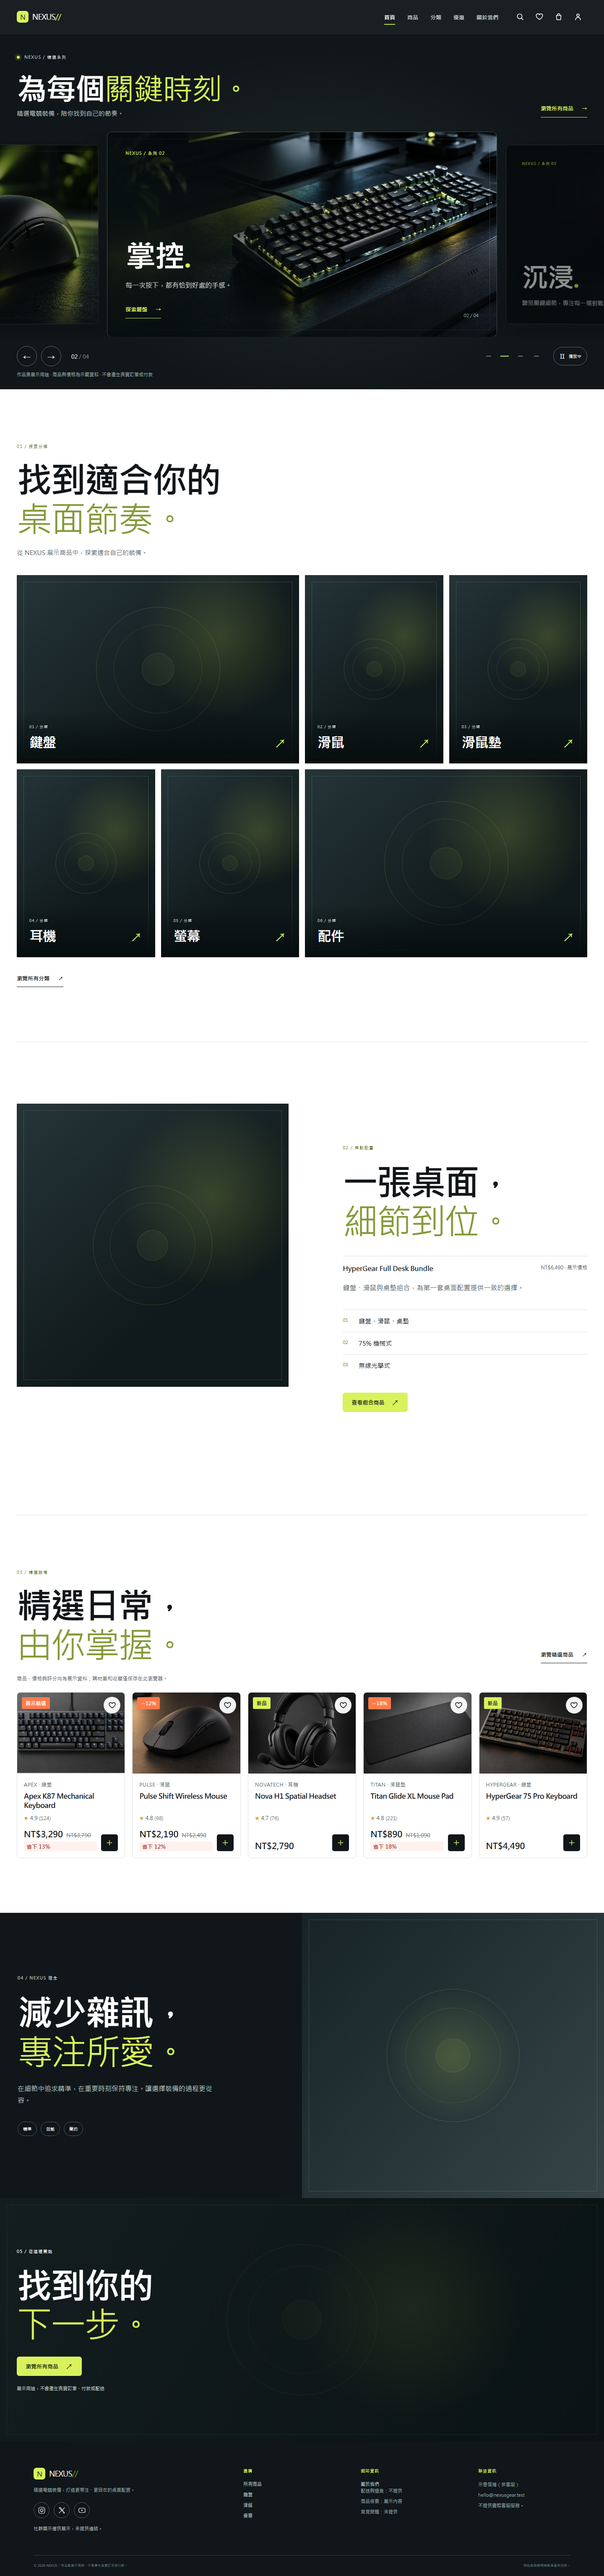
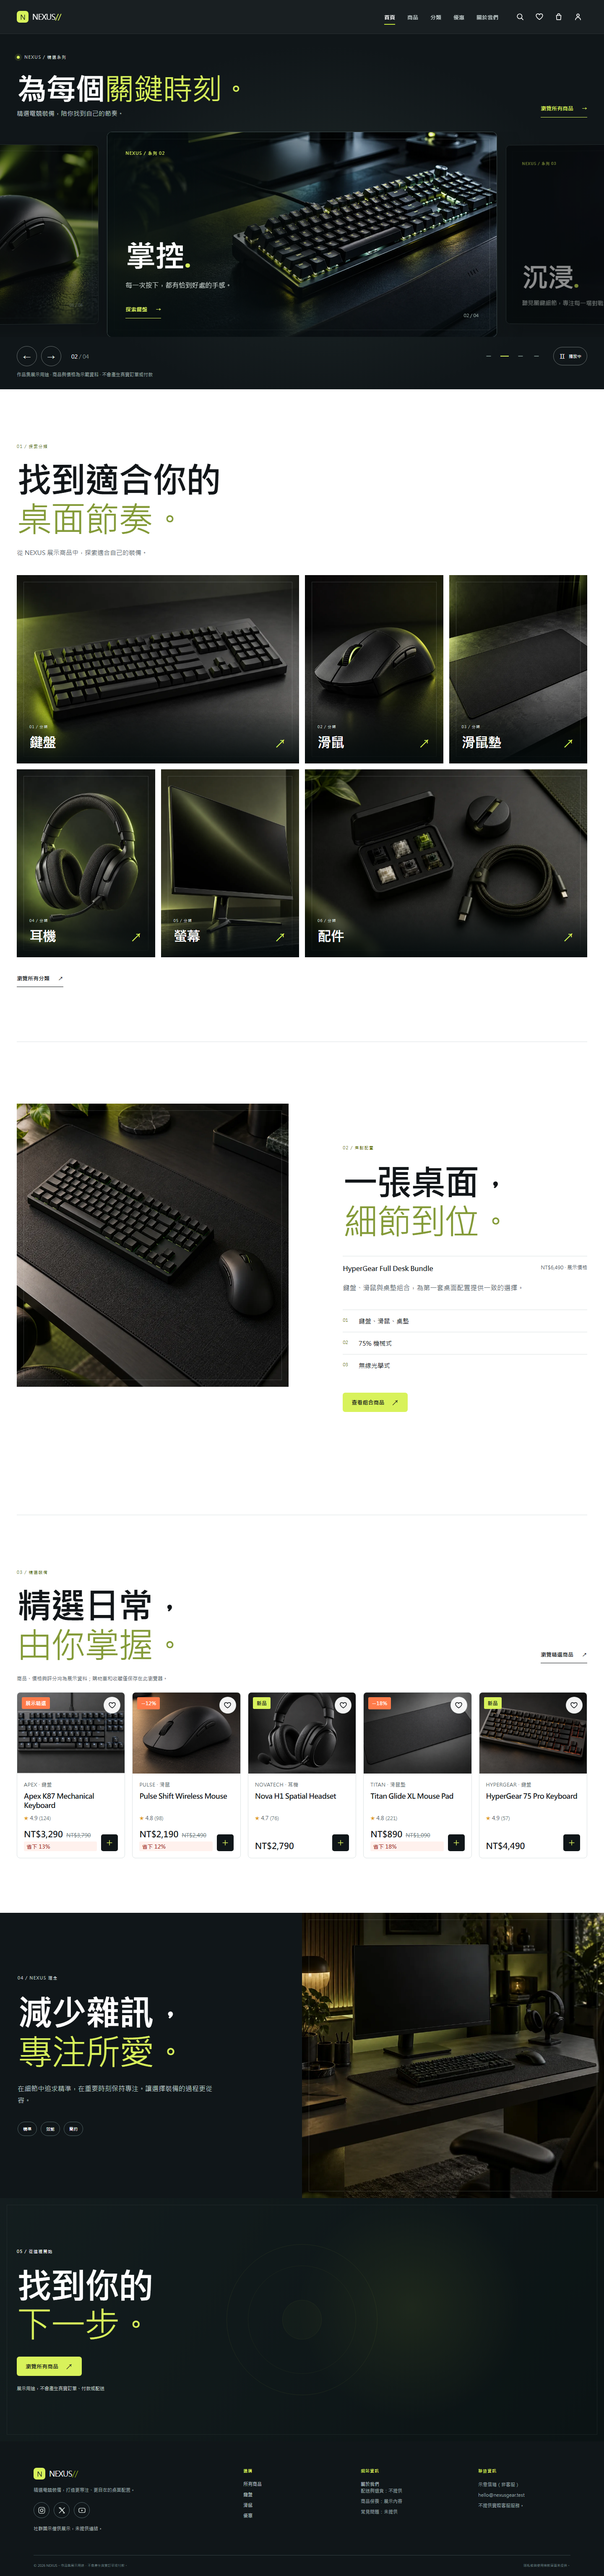
feat: complete NEXUS homepage editorial media

Changed region(s): [[0.0, 0.2177, 1.0, 0.3732], [0.5, 0.7154, 1.0, 0.8709], [0.0, 0.4043, 0.4688, 0.5598]]

diff --git a/src/views/HomeView.vue b/src/views/HomeView.vue
@@ -16,6 +16,14 @@ const featured = computed(() => props.products.filter((product) => product.featu
 const storyProduct = computed(() => props.products.find((product) => product.id === 23))
 const homeCategories = [...categories.slice(0, 2), { name: 'Mouse Pads' }, ...categories.slice(2)]
 const categoryMedia = { Keyboards: 'HOME_CATEGORY_KEYBOARD', Mice: 'HOME_CATEGORY_MOUSE', 'Mouse Pads': 'HOME_CATEGORY_MOUSEPAD', Headsets: 'HOME_CATEGORY_HEADSET', Monitors: 'HOME_CATEGORY_MONITOR', Accessories: 'HOME_CATEGORY_ACCESSORY' }
+const categoryAssets = {
+  Keyboards: { src: '/media/home/category-keyboard.webp', width: 1536, height: 1024 },
+  Mice: { src: '/media/home/category-mouse.webp', mobileSrc: '/media/home/category-mouse-mobile.webp', width: 1122, height: 1402 },
+  'Mouse Pads': { src: '/media/home/category-mousepad.webp', mobileSrc: '/media/home/category-mousepad-mobile.webp', width: 1122, height: 1402 },
+  Headsets: { src: '/media/home/category-headset.webp', mobileSrc: '/media/home/category-headset-mobile.webp', width: 1122, height: 1402 },
+  Monitors: { src: '/media/home/category-monitor.webp', mobileSrc: '/media/home/category-monitor-mobile.webp', width: 1122, height: 1402 },
+  Accessories: { src: '/media/home/category-accessory.webp', width: 1536, height: 1024 },
+}
 let motionContext
 let mediaQuery
 
@@ -52,18 +60,18 @@ onUnmounted(() => { mediaQuery?.revert(); motionContext?.revert() })
 
     <section id="discover" class="nexus-home-section nexus-discovery" aria-labelledby="discovery-title" data-scroll-section>
       <div class="nexus-section-head" data-reveal><p class="nexus-overline">01 / 探索分類</p><h2 id="discovery-title">找到適合你的<br><em>桌面節奏。</em></h2><p>從 NEXUS 展示商品中，探索適合自己的裝備。</p></div>
-      <div class="nexus-category-grid"><a v-for="(category, index) in homeCategories" :key="category.name" class="nexus-category" :class="{ 'nexus-category--wide': index === 0 || index === homeCategories.length - 1 }" :href="`/products?category=${encodeURIComponent(category.name)}`" @click.prevent="emit('navigate', `/products?category=${encodeURIComponent(category.name)}`)" data-reveal><MediaPlaceholder :media-id="categoryMedia[category.name]" :label="`${categoryLabel(category.name)}分類媒體預留區`" intended-type="image" :aspect-ratio="index === 0 || index === homeCategories.length - 1 ? '3 / 2' : '4 / 5'" mobile-aspect-ratio="16 / 9" variant="category" priority="P2" :show-meta="false" /><span class="nexus-category__footer"><span><small>0{{ index + 1 }} / 分類</small><strong>{{ categoryLabel(category.name) }}</strong></span><span class="nexus-category__arrow" aria-hidden="true">↗</span></span></a></div>
+      <div class="nexus-category-grid"><a v-for="(category, index) in homeCategories" :key="category.name" class="nexus-category" :class="{ 'nexus-category--wide': index === 0 || index === homeCategories.length - 1 }" :href="`/products?category=${encodeURIComponent(category.name)}`" @click.prevent="emit('navigate', `/products?category=${encodeURIComponent(category.name)}`)" data-reveal><MediaPlaceholder :media-id="categoryMedia[category.name]" :label="`${categoryLabel(category.name)}分類媒體預留區`" intended-type="image" :aspect-ratio="index === 0 || index === homeCategories.length - 1 ? '3 / 2' : '4 / 5'" mobile-aspect-ratio="16 / 9" variant="category" priority="P2" :show-meta="false" v-bind="categoryAssets[category.name]" alt="" /><span class="nexus-category__footer"><span><small>0{{ index + 1 }} / 分類</small><strong>{{ categoryLabel(category.name) }}</strong></span><span class="nexus-category__arrow" aria-hidden="true">↗</span></span></a></div>
       <a class="nexus-inline-link" href="/products" @click.prevent="emit('navigate', '/products')">瀏覽所有分類 <span aria-hidden="true">↗</span></a>
     </section>
 
     <section v-if="storyProduct" class="nexus-home-section nexus-story" aria-labelledby="story-title" data-scroll-section>
-      <div class="nexus-story__visual" data-reveal><MediaPlaceholder media-id="HOME_FEATURE_STORY" :label="`${storyProduct.name} product story`" intended-type="either" aspect-ratio="4 / 5" mobile-aspect-ratio="4 / 3" variant="story" priority="P1" :show-meta="false" /></div>
+      <div class="nexus-story__visual" data-reveal><MediaPlaceholder media-id="HOME_FEATURE_STORY" :label="`${storyProduct.name} product story`" intended-type="image" aspect-ratio="4 / 5" mobile-aspect-ratio="4 / 3" variant="story" priority="P1" :show-meta="false" src="/media/home/feature-story.webp" alt="深色桌墊上的機械鍵盤與無線滑鼠，呈現桌面組合配置" :width="1122" :height="1402" /></div>
       <div class="nexus-story__copy"><p class="nexus-overline" data-reveal>02 / 焦點配置</p><h2 id="story-title" data-reveal>一張桌面，<br><em>細節到位。</em></h2><p class="nexus-story__name" data-reveal>{{ storyProduct.name }} <span>{{ money(storyProduct.price) }} · 展示價格</span></p><p data-reveal>{{ productDescription(storyProduct) }}</p><div class="nexus-story__points" data-reveal><p><span>01</span> {{ specificationValue(storyProduct.specifications.Includes) }}</p><p><span>02</span> {{ specificationValue(storyProduct.specifications.Keyboard) }}</p><p><span>03</span> {{ specificationValue(storyProduct.specifications.Mouse) }}</p></div><a class="btn btn-primary" :href="`/products/${storyProduct.id}`" @click.prevent="emit('navigate', `/products/${storyProduct.id}`)" data-reveal>查看組合商品 <span aria-hidden="true">↗</span></a></div>
     </section>
 
     <section class="nexus-home-section nexus-featured" aria-labelledby="featured-title" data-scroll-section><div class="nexus-section-head nexus-section-head--row" data-reveal><div><p class="nexus-overline">03 / 精選裝備</p><h2 id="featured-title">精選日常，<br><em>由你掌握。</em></h2></div><a class="nexus-inline-link" href="/products?featured=true" @click.prevent="emit('navigate', '/products?featured=true')">瀏覽精選商品 <span aria-hidden="true">↗</span></a></div><p class="nexus-featured__note">商品、價格與評分均為展示資料；購物車和收藏僅保存在此瀏覽器。</p><ProductGrid :products="featured" :wishlist-ids="wishlistIds" @add="emit('add', $event)" @toggle-wishlist="emit('toggle-wishlist', $event)" @open="emit('open', $event)" /></section>
 
-    <section class="nexus-philosophy" aria-labelledby="philosophy-title" data-scroll-section><div class="nexus-philosophy__copy"><p class="nexus-overline" data-reveal>04 / NEXUS 理念</p><h2 id="philosophy-title" data-reveal>減少雜訊，<br><em>專注所愛。</em></h2><p data-reveal>在細節中追求精準，在重要時刻保持專注。讓選擇裝備的過程更從容。</p><div class="nexus-philosophy__values" data-reveal><span>精準</span><span>效能</span><span>簡約</span></div></div><MediaPlaceholder class="nexus-philosophy__media" media-id="HOME_BRAND_FILM" label="NEXUS 品牌氛圍媒體預留區" intended-type="video" aspect-ratio="4 / 5" mobile-aspect-ratio="16 / 9" variant="brand" priority="P2" :show-meta="false" /></section>
+    <section class="nexus-philosophy" aria-labelledby="philosophy-title" data-scroll-section><div class="nexus-philosophy__copy"><p class="nexus-overline" data-reveal>04 / NEXUS 理念</p><h2 id="philosophy-title" data-reveal>減少雜訊，<br><em>專注所愛。</em></h2><p data-reveal>在細節中追求精準，在重要時刻保持專注。讓選擇裝備的過程更從容。</p><div class="nexus-philosophy__values" data-reveal><span>精準</span><span>效能</span><span>簡約</span></div></div><MediaPlaceholder class="nexus-philosophy__media" media-id="HOME_BRAND_FILM" label="NEXUS 品牌桌面情境" intended-type="image" aspect-ratio="4 / 5" mobile-aspect-ratio="16 / 9" variant="brand" priority="P2" :show-meta="false" src="/media/home/brand-philosophy.webp" alt="深色桌面配置，包含螢幕、鍵盤、滑鼠、耳機與桌墊" :width="1122" :height="1402" /></section>
 
     <section class="nexus-closing" aria-labelledby="closing-title" data-scroll-section><MediaPlaceholder class="nexus-closing__media" media-id="HOME_CLOSING_VISUAL" label="結尾系列媒體預留區" intended-type="either" aspect-ratio="21 / 9" mobile-aspect-ratio="4 / 5" variant="closing" priority="P2" :show-meta="false" /><div class="nexus-closing__content"><p class="nexus-overline" data-reveal>05 / 從這裡開始</p><h2 id="closing-title" data-reveal>找到你的<br><em>下一步。</em></h2><a class="btn btn-primary" href="/products" @click.prevent="emit('navigate', '/products')" data-reveal>瀏覽所有商品 <span aria-hidden="true">↗</span></a><p data-reveal>展示用途，不會產生真實訂單、付款或配送</p></div></section>
   </main>
